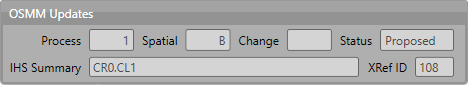
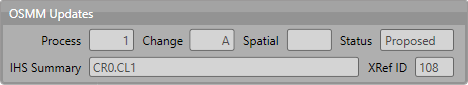
Tweaks for v3.1.3

Changed region(s): [[0.4487, 0.3294, 0.5983, 0.6118], [0.2991, 0.3294, 0.4188, 0.6118]]

diff --git a/interface/interface.rst b/interface/interface.rst
@@ -96,7 +96,7 @@ Process
 OSMM Updates Section
 --------------------
 
-The 'OSMM Updates' section displays summary information of any proposed or pending OSMM updates for each INCID in the database, including the update process flag, spatial flag, change flag, status and proposed new IHS Summary as shown in the figure :ref:`figUIOUS`.
+The 'OSMM Updates' section displays summary information of any proposed or pending OSMM updates for each INCID in the database, including the update process flag, change flag, spatial flag, status and proposed new IHS Summary as shown in the figure :ref:`figUIOUS`.
 
 .. note::
 	If/when the OSMM Update section appears can be configured in the user options. For details see :ref:`options_interface`.
@@ -629,8 +629,8 @@ Process Flag
 		* 8 = Any to Unknown (any number of sources)
 		* 9 = Unknown to any (except unknown) (any number of sources)
 
-Spatial Flag
-	Assists with prioritising proposed updates by indicating whether the proposed habitat category (e.g. 'WB') is the same as the original habitat category and whether it is a higher or lower level in the habitat hierarchy, as follows:
+Change Flag
+	Assists with prioritising proposed updates by summarising the type of habitat change. Values indicate whether the proposed habitat category (e.g. 'WB') is the same as the original habitat category and whether it is a higher or lower level in the habitat hierarchy, as follows:
 
 		* <blank> = Same category and habitat (e.g. GN1 to GN1)
 		* A = Same category but proposed habitat is higher level (e.g. WB3 to WB36)
@@ -640,8 +640,8 @@ Spatial Flag
 		* E = Proposed habitat is different and lower level (e.g. WB36 to EM4)
 
 
-Change Flag
-	Denoted by an 'X' this indicates when a feature (once the external OSMM Update process is completed) overlaps two or more features in the original framework, and so a portion of the new feature may now be assigned to a different INCID than it was originally. Hence part of the new feature has been changed.
+Spatial Flag
+	Indicates whether part of the new feature has been changed compared to the original framework. An 'X' denotes when a feature (once the external OSMM Update process has been completed) overlaps two or more features in the original framework, and so a portion of the new feature may now be assigned to a different INCID than it was originally.
 
 Status
 	Indicates the current status of the proposed OSMM Update, as follows:
@@ -703,19 +703,19 @@ When the review OSMM updates mode is first started, the OSMM Updates Filter wind
 	Review OSMM Updates Filter Window
 
 OSMM Updates Summary
-	Displays a tabular summary of all the OSMM Updates in the database. Each row is a unique combination of the Process Flag, Spatial Flag, Change Flag and shows the number of records for each of the possible Status values (Rejected, Ignored, Proposed, Pending and Applied) and the total records for all statuses. Only combinations that exist in the database (rather than all possible combinations) will appear in the table.
+	Displays a tabular summary of all the OSMM Updates in the database. Each row is a unique combination of the Process Flag, Change Flag, Spatial Flag and shows the number of records for each of the possible Status values (Rejected, Ignored, Proposed, Pending and Applied) and the total records for all statuses. Only combinations that exist in the database (rather than all possible combinations) will appear in the table.
 
 	.. tip::
-		Selecting one of the rows in the table will set the Process, Spatial and Change values in the Filter by OSMM Updates section to those of the selected row. However, the Status field will not be changed and must be selected manually.
+		Selecting one of the rows in the table will set the Process, Change and Spatial values in the Filter by OSMM Updates section to those of the selected row. However, the Status field will not be changed and must be selected manually.
 
 Process
 	Allows the user to select a specific value, to select only proposed updates with a given Process flag, or select <all> to select proposed updates with any Process flag.
 
-Spatial
-	Allows the user to select a specific value, to select only proposed updates with a given Spatial flag, or select <all> to select proposed updates with any Spatial flag.
-
 Change
 	Allows the user to select a specific value, to select only proposed updates with a given Change flag, or select <all> to select proposed updates with any Change flag.
+
+Spatial
+	Allows the user to select a specific value, to select only proposed updates with a given Spatial flag, or select <all> to select proposed updates with any Spatial flag.
 
 Status
 	Allows the user to select a specific value to select only proposed updates with a given pending status (Rejected, Ignored or Proposed).
@@ -727,7 +727,7 @@ OK
 	Click :guilabel:`Ok` to apply the selected filter to the INCID records in the main interface and close the OSMM Updates Filter window.
 
 Reset
-	Click :guilabel:`Reset` to clear all of the Process, Spatial, Change and Status fields.
+	Click :guilabel:`Reset` to clear all of the Process, Change, Spatial and Status fields.
 
 Cancel
 	Click :guilabel:`Cancel` to close the OSMM Updates Filter window without applying a new filter.

diff --git a/glossary/glossary.rst b/glossary/glossary.rst
@@ -16,6 +16,9 @@ Glossary
 	Bulk Update
 		Enables updates to the attributes for multiple selected INCIDs simultaneously. See :ref:`bulk_update_window` and :ref:`bulk_updates` for more details.
 
+	Change Flag
+		For OSMM updates this indicates whether the proposed habitat category (e.g. 'WB') is the same as the original habitat category and whether it is a higher or lower level in the habitat hierarchy. See :ref:`review_osmm_section` for more details.
+
 	Determination Quality
 		Categorises the accuracy with which a priority habitat has been determined (e.g. 'Definitely is the priority habitat'). See :ref:`determination_quality` for more details.
 
@@ -79,11 +82,17 @@ Glossary
 	Process
 		The activity being undertaken that has lead to applying this change to the spatial or attribute data of the current INCID. See :ref:`reason_section` for more details.
 
+	Process Flag
+		For OSMM updates this represents the type of change in the IHS habitat class from the original incid feature to the new incid feature, as well as the number of sources assigned to the original incid feature.  See :ref:`review_osmm_section` for more details.
+
 	Reason
 		The underlying explanation for the change in habitat or land use. See :ref:`reason_section` for more details.
 
 	Source
 		A dataset, document or reference used as the source of habitat or land use information. Up to three sources can be defined for each INCID. See :ref:`source_tab` for more details.
+
+	Spatial Flag
+		For OSMM updates this indicates whether part of the new feature has been changed compared to the original framework, with An 'X' denotes when a new feature overlaps two or more features in the original framework and hence a portion of the new feature may now be assigned to a different INCID than it was originally. See :ref:`review_osmm_section` for more details.
 
 	Split Feature
 		The tool can perform two types of split, Logical Split or Physical Split, depending upon the features selected. See :ref:`split` for more details.

diff --git a/functions/functions.rst b/functions/functions.rst
@@ -510,7 +510,7 @@ If the habitat framework has been externally processed against a more recent OS 
 To filter proposed OSMM Updates:
 
 * Click :guilabel:`Edit... --> Review OSMM Updates` to enter review OSMM update mode. The OSMM Updates Filter window will appear as shown in figure :ref:`figUIOUF`.
-* Select a row in the table or manually select the required values for any or all of the Process, Spatial, Change and Status fields.
+* Select a row in the table or manually select the required values for any or all of the Process, Change, Spatial and Status fields.
 * Click :guilabel:`Ok` to apply the selected filter to the INCID records in the main interface.
 
 .. note::
@@ -585,7 +585,7 @@ Once proposed OSMM updates have been accepted they become 'Pending' and must be 
 To filter pending OSMM Updates:
 
 * Click :guilabel:`Edit... --> Bulk Apply OSMM Updates` to enter bulk OSMM update mode. The OSMM Updates Filter window will appear as shown in figure :ref:`figUIBOUF`.
-* Select a row in the table or manually select the required values for any or all of the Process, Spatial, Change and Status fields.
+* Select a row in the table or manually select the required values for any or all of the Process, Change, Spatial and Status fields.
 * Click :guilabel:`Ok` to apply the selected filter to the INCID records in the main interface.
 
 .. note::

diff --git a/appendix/appendix.rst b/appendix/appendix.rst
@@ -17,7 +17,7 @@ Change Log
     * :guilabel:`Fixed` Delete existing sources when bulk applying OSMM update (*Fix093*)
     * :guilabel:`Fixed` Insert new primary BAP habitats when bulk applying OSMM update (*Fix094*)
     * :guilabel:`Improved` Show OSMM XRef ID in user interface for pending OSMM updates (*Fix095*)
-    * :guilabel:`Improved` Improve performance when applying or rejecting multiple OSMM updates (*Fix095*)
+    * :guilabel:`Improved` Improve performance when applying/rejecting multiple OSMM updates (*Fix095*)
 
 **3.1.2**
 (17th April 2020)
